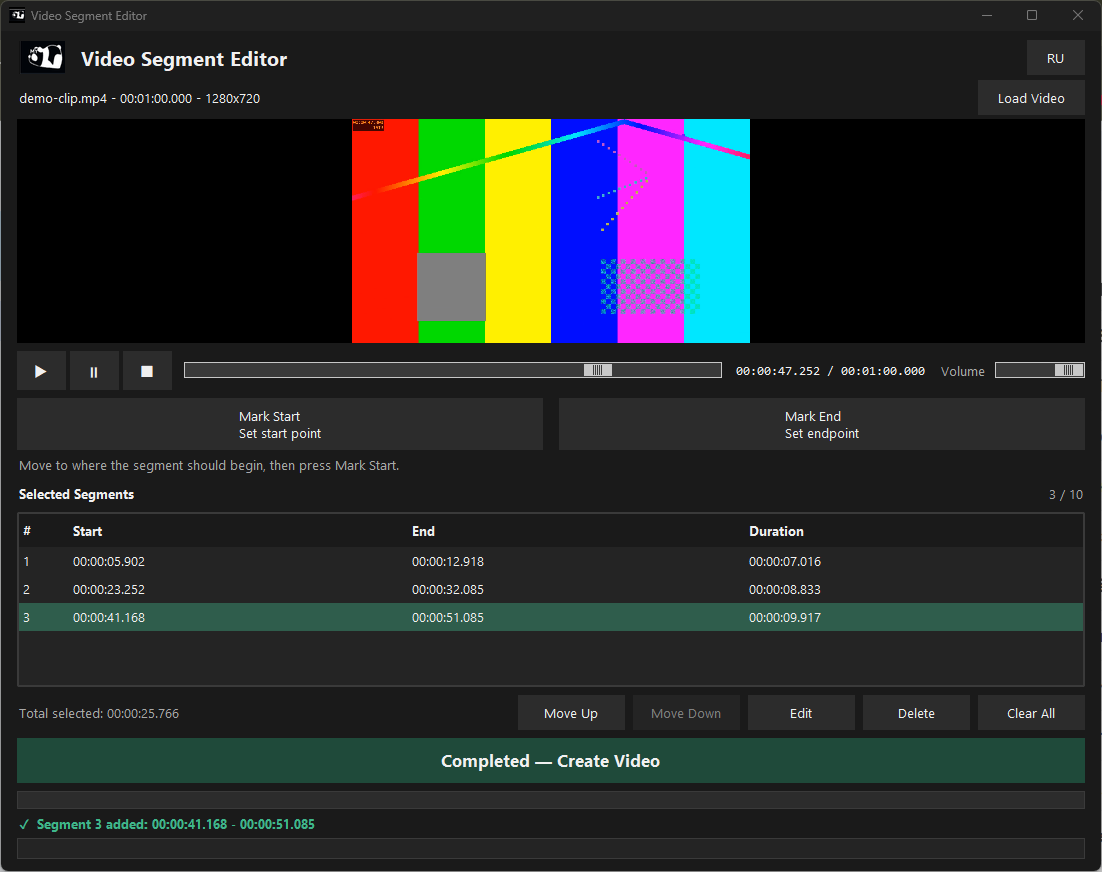
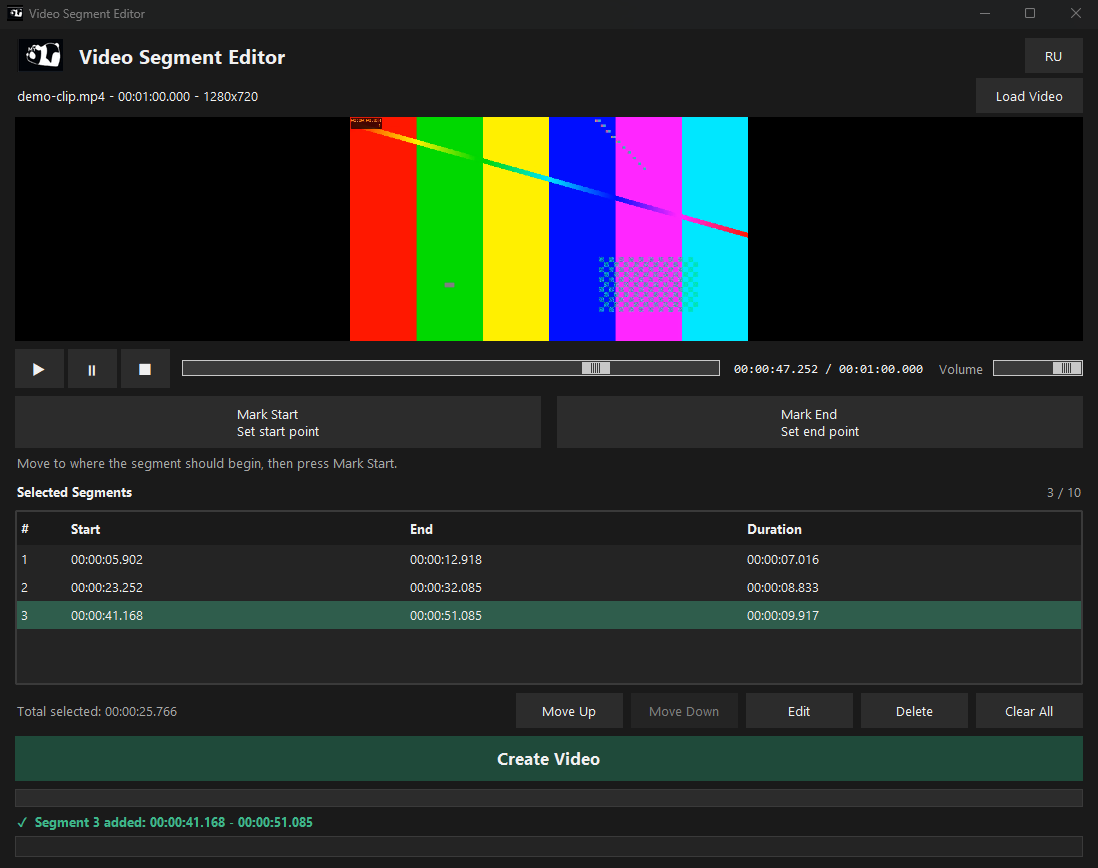
Update screenshots to the current build

diff --git a/docs/release/owner-checklist-github-desktop.md b/docs/release/owner-checklist-github-desktop.md
@@ -52,7 +52,7 @@ Recommendation: A. Your choice: ______
 
 ## 6. Community files
 - [ ] `.github/ISSUE_TEMPLATE/bug_report.md` and `feature_request.md` are in the commit.
-- [ ] Decide whether to copy `docs/release/CONTRIBUTING-note.md` to the repository root as `CONTRIBUTING.md` (GitHub then links it automatically).
+- [x] The contributing note is now `.github/CONTRIBUTING.md` (GitHub links it automatically from the issue and pull request pages).
 - [ ] On GitHub: About (gear icon): paste the description and topics from `repo-description-and-topics.md`.
 
 ## 7. Make the Release

diff --git a/.github/CONTRIBUTING.md b/.github/CONTRIBUTING.md
@@ -1,4 +1,4 @@
-# Contributing (minimal note)
+# Contributing
 
 Thank you for your interest in Video Segment Editor. This is a small personal project; replies may take a few days.
 
